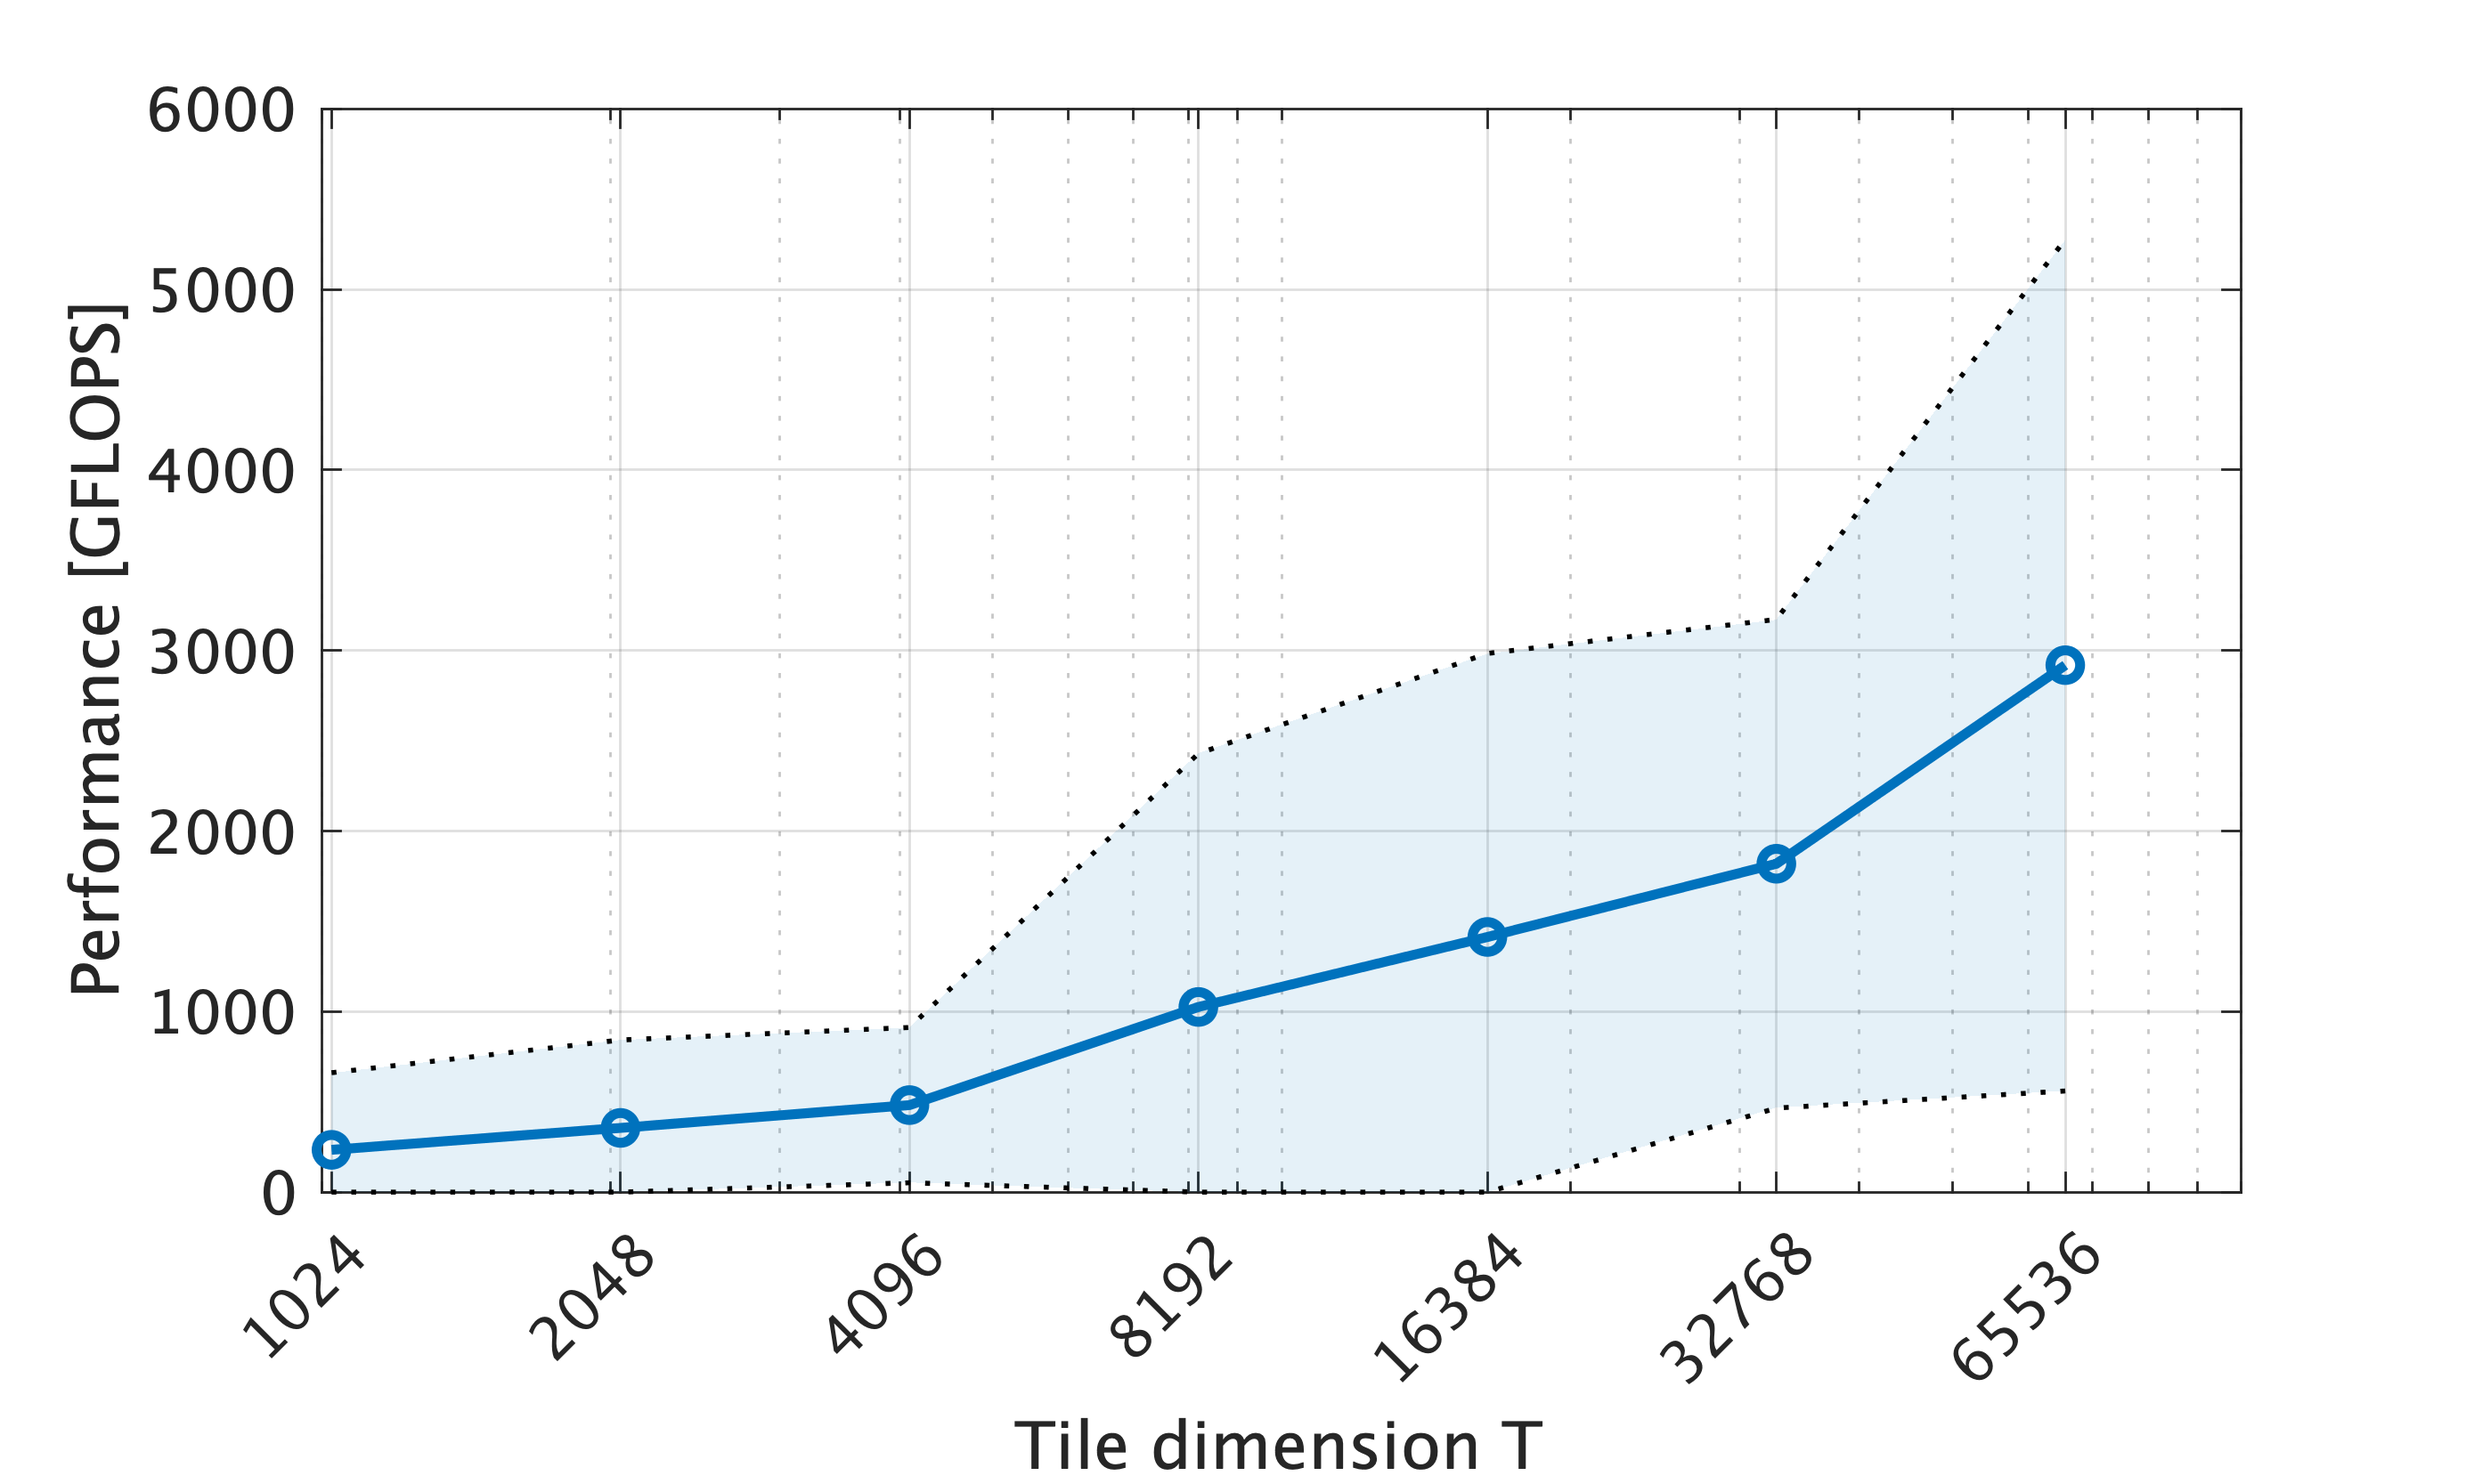
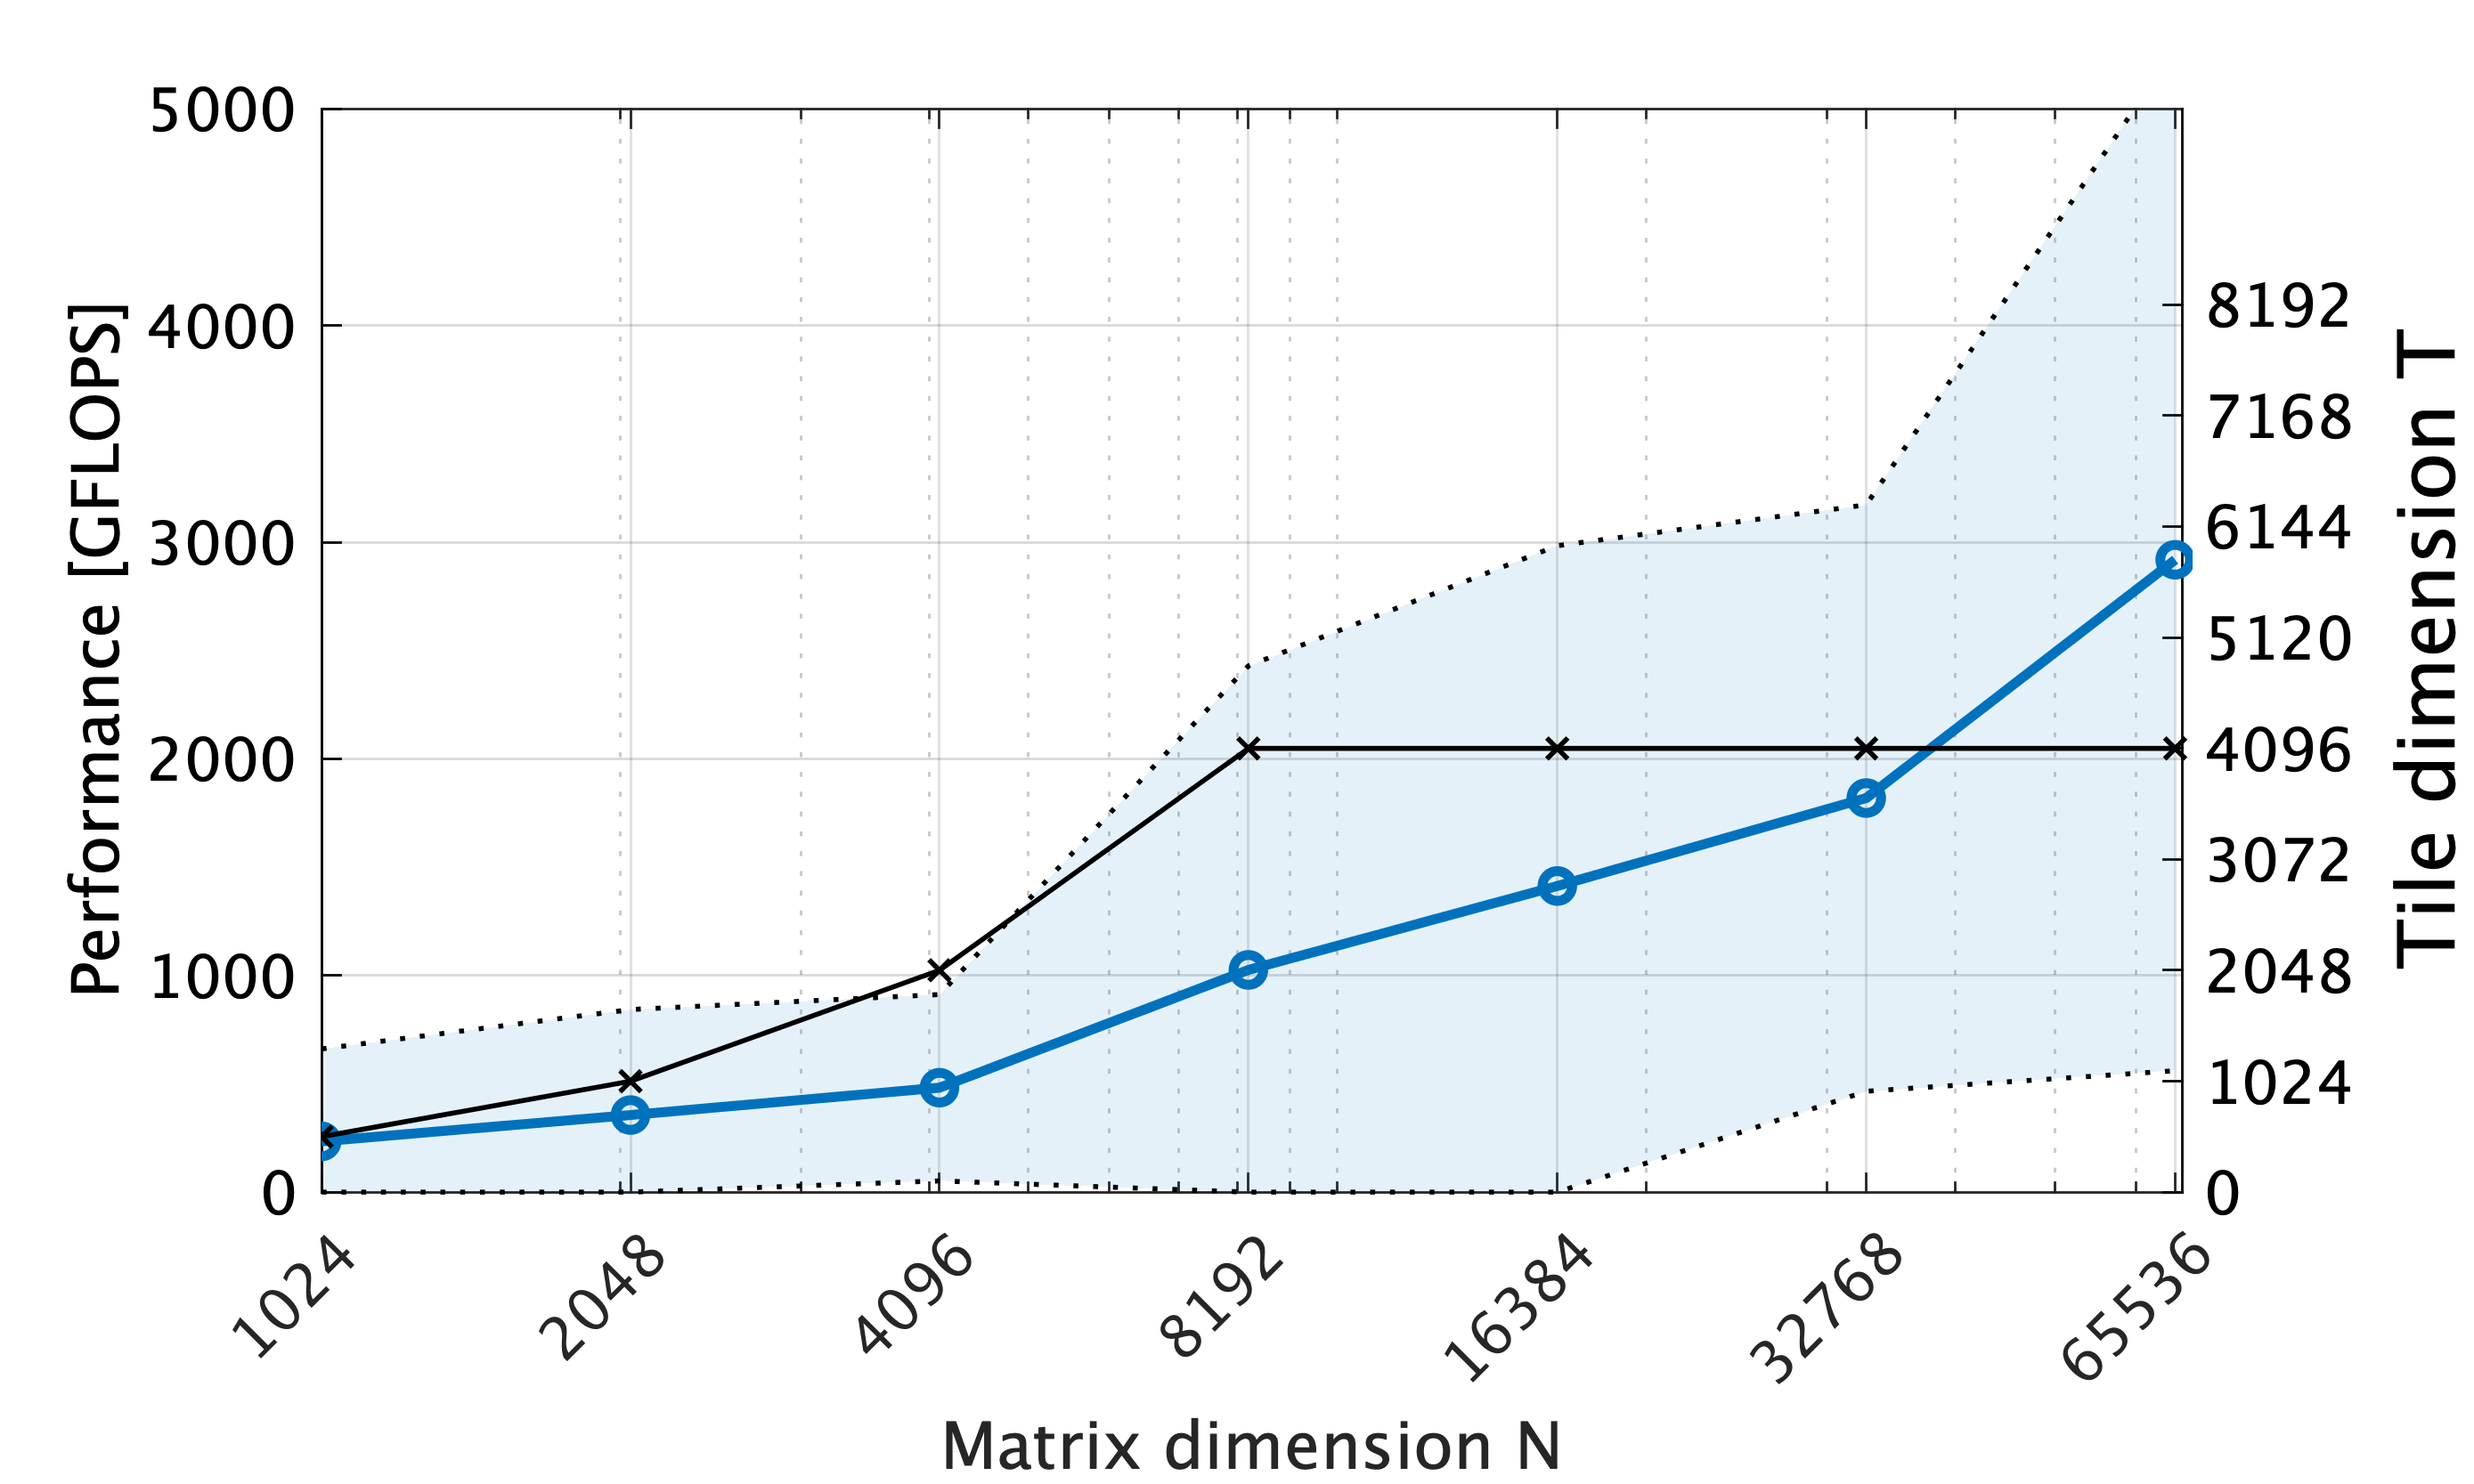
still updating plots

diff --git a/Benchmarks/Plots.m b/Benchmarks/Plots.m
@@ -229,13 +229,25 @@ plot(n(1:3:end), mGFLOPS + a, ':k', 'LineWidth', 1);
 plot(n(1:3:end), max(0, mGFLOPS - a), ':k', 'LineWidth', 1);
 
 %title(['\fontname{SansSerif}',' N = ',num2str(Ns(1))], 'FontSize', 24);
-xlabel('\fontname{SansSerif}Tile dimension T', 'FontSize', 16)
+xlabel('\fontname{SansSerif}Matrix dimension N', 'FontSize', 16)
 ylabel('\fontname{SansSerif}Performance [GFLOPS]', 'FontSize', 16)
+xlim([0, n(end) + 1024])
+
 xticks(n(1:3:end))
 xtickangle(45)
+ylim([0, 5000])
+yticks(0:1000:5000)
 
 ax = get(gca,'XTickLabel');
 set(gca,'XTickLabel',ax,'FontName','SansSerif','fontsize',12)
+
+yyaxis right
+plot(n(1:3:end), blockdim(1:3:end), '-xk', 'LineWidth', 2);
+ylim([0, 10000])
+yticks(0:1024:8192)
+ylabel('\fontname{SansSerif}Tile dimension T', 'FontSize', 16)
+ax = gca;
+ax.YColor = 'k';
 
 print(f3, 'Benchmark CublasXt/Finalresults_benchmarkCublasXtSXM2SH.png', '-dpng', '-r400')
 
@@ -272,13 +284,25 @@ plot(n(1:3:end), mGFLOPS + a, ':k', 'LineWidth', 1);
 plot(n(1:3:end), max(0, mGFLOPS - a), ':k', 'LineWidth', 1);
 
 %title(['\fontname{SansSerif}',' N = ',num2str(Ns(1))], 'FontSize', 24);
-xlabel('\fontname{SansSerif}Tile dimension T', 'FontSize', 16)
+xlabel('\fontname{SansSerif}Matrix dimension N', 'FontSize', 16)
 ylabel('\fontname{SansSerif}Performance [GFLOPS]', 'FontSize', 16)
 xticks(n(1:3:end))
+xlim([0, n(end) + 1024])
+
 xtickangle(45)
+ylim([0, 5000])
+yticks(0:1000:5000)
 
 ax = get(gca,'XTickLabel');
 set(gca,'XTickLabel',ax,'FontName','SansSerif','fontsize',12)
+
+yyaxis right
+plot(n(1:3:end), blockdim(1:3:end), '-xk', 'LineWidth', 1);
+ylim([0, 10000])
+yticks(0:1024:8192)
+ylabel('\fontname{SansSerif}Tile dimension T', 'FontSize', 16)
+ax = gca;
+ax.YColor = 'k';
 
 print(f4, 'Benchmark CublasXt/Finalresults_benchmarkCublasXtP9SH.png', '-dpng', '-r400')
 
